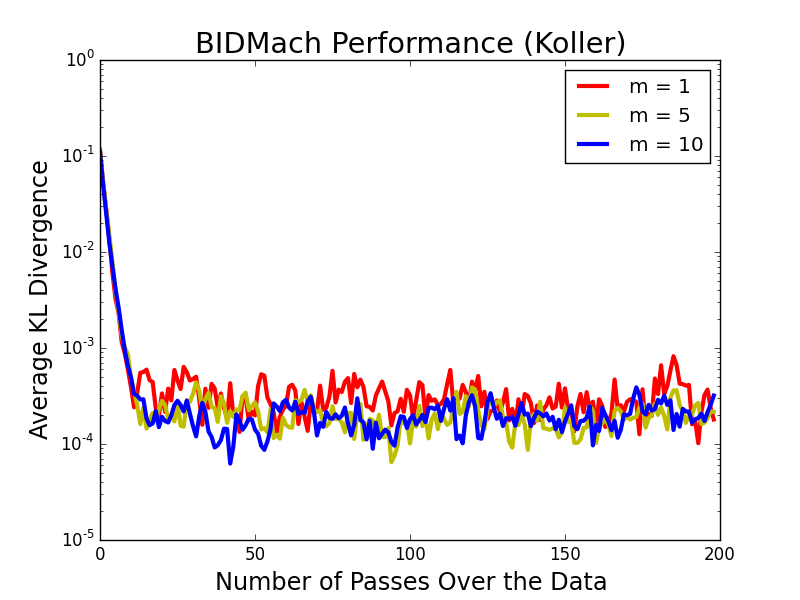
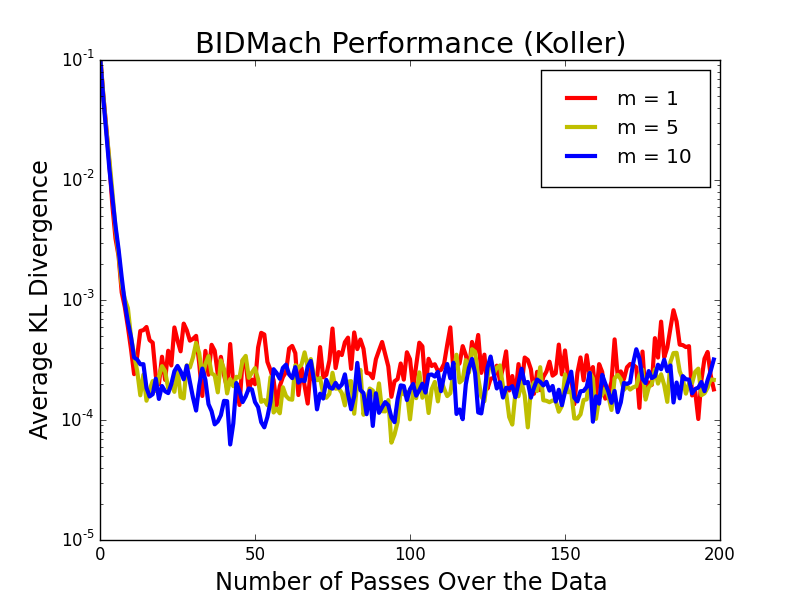
Rearrnage figures and reorganized latex handling of side by side figures

diff --git a/iclr2016_conference.tex b/iclr2016_conference.tex
@@ -299,19 +299,19 @@ sampler, as it is cheaper and simpler to run as compared to using a computing cl
 \centering
 \begin{subfigure}{.5\textwidth}
   \centering
-  \includegraphics[width=1\linewidth]{fig_kldiv_koller_mb4_gpu}
+  \includegraphics[width=0.9\linewidth]{fig_kldiv_koller_mb4_gpu}
   \caption{The $KL_{\rm avg}$ from BIDMach.}
   \label{fig:kl_bidmach}
 \end{subfigure}%
 \begin{subfigure}{.5\textwidth}
   \centering
-  \includegraphics[width=1\linewidth]{fig_kl_div_25_50_perc_jags}
+  \includegraphics[width=0.9\linewidth]{fig_kldiv_50perc_jags}
   \caption{The $KL_{\rm avg}$ from JAGS.}
   \label{fig:kl_jags}
 \end{subfigure}
-\caption{Plots of our $KL_{\rm avg}$ curves as a function of the iteration, on Koller Data. Both
-BIDMach and JAGS converge to the true CPTs quickly. (These must be viewed in color.)}
-\label{fig:test}
+\caption{Plots of our $KL_{\rm avg}$ curves as a function of the iteration, on Koller Data (these
+must be viewed in color). Both BIDMach and JAGS converge to the true CPTs quickly.}
+\label{fig:first_set}
 \end{figure}
 
 % BIDMach (CPU) vs JAGS for the Koller data. This one only has 50k columns now!
@@ -452,19 +452,22 @@ make it clear that runtimes in JAGS *include* initialization.}
 % be done to get high quality models. We should mention that we do not know why JAGS converges
 % faster, and analyzing the source code did not help.
 \begin{figure}[t]
+\centering
+\begin{subfigure}{.5\textwidth}
   \centering
-  \begin{minipage}{.5\textwidth}
-    \centering
-    \includegraphics[width=1\textwidth]{fig_diff_sparsity_bidmach}
-    \caption{Time and $KL_{\rm avg}$ (BIDMach).}
-    \label{fig:kl_time_bidmach}
-  \end{minipage}\hfill
-    \begin{minipage}{.5\textwidth}
-    \centering
-    \includegraphics[width=1\textwidth]{fig_diff_sparsity_jags}
-    \caption{Time and $KL_{\rm avg}$ (JAGS).}
-    \label{fig:kl_time_jags}
-  \end{minipage}
+  \includegraphics[width=0.9\textwidth]{fig_diff_sparsity_bidmach}
+  \caption{The $KL_{\rm avg}$ from BIDMach.}
+  \label{fig:kl_time_bidmach}
+\end{subfigure}%
+\begin{subfigure}{.5\textwidth}
+  \centering
+  \includegraphics[width=0.9\textwidth]{fig_diff_sparsity_jags}
+  \caption{The $KL_{\rm avg}$ from JAGS.}
+  \label{fig:kl_time_jags}
+\end{subfigure}
+\caption{Plots of our $KL_{\rm avg}$ curves as a function of the iteration, on Synthetic MOOC Data
+with different sparsity levels (these must be viewed in color).}
+\label{fig:second_set}
 \end{figure}
 
 
@@ -542,27 +545,24 @@ data. What is interesting is that the performance of $m=10$ is \emph{worse} than
 thousands of iterations, the $m=10$ curve was essentially neck-to-neck with the $m=1$ curve, but
 corresponds to a much slower runtime.
 
-\textbf{Daniel: We are planning on including one JAGS curve ($m=1$) in Figure~\ref{fig:mooc_kl}. We
-will need to explicitly state the runtimes for BIDMach/JAGS, probably just here in the text and not
-in a figure/table. Also, I should explain the ``long term'' trend stuff better, perhaps even
-extending the plot a bit. Finally, like before, I want to give an intuitive feel of the accuracy,
-i.e., how many decimal points of accuracy?}
-
 \begin{figure}[t]
+\centering
+\begin{subfigure}{.5\textwidth}
   \centering
-  \begin{minipage}{.5\textwidth}
-    \centering
-    \includegraphics[width=1\textwidth]{fig_kltime_tradeoff_mooc}
-    \caption{Time and $KL_{\rm avg}$ tradeoff.}
-    \label{fig:mooc_kl}
-  \end{minipage}\hfill
-    \begin{minipage}{.5\textwidth}
-    \centering
-    \includegraphics[width=1\textwidth]{fig_bidmach_real_mooc_roc_curve}
-    \caption{MOOC data ROC curve.}
-    \label{fig:mooc_accuracy}
-  \end{minipage}
+  \includegraphics[width=0.9\textwidth]{fig_kltime_tradeoff_mooc}
+  \caption{The $KL_{\rm avg}$ from BIDMach.}
+  \label{fig:mooc_kl}
+\end{subfigure}%
+\begin{subfigure}{.5\textwidth}
+  \centering
+  \includegraphics[width=0.9\textwidth]{fig_bidmach_real_mooc_roc_curve}
+  \caption{MOOC data ROC curve.}
+  \label{fig:mooc_accuracy}
+\end{subfigure}
+\caption{A more in-depth look at our sampler on Synthetic and Real MOOC data.}
+\label{fig:third_set}
 \end{figure}
+
 
 The second way we evaluate our sampler is with prediction accuracy. We divide the original
 data into a training and testing batch so that 80\% of the known data is in training. The training

diff --git a/data_and_scripts/Figure3_Material/draw.py b/data_and_scripts/Figure3_Material/draw.py
@@ -62,13 +62,14 @@ for i in xrange(3):
     plt.plot(data[i][:200], signals[i], label=legend_labels[i], linewidth=linewidth_num)
 
 # Be sure to increase the font sizes! I might also have to experiment with a lot of other settings.
-plt.legend(loc='upper right', ncol=1)
+plt.legend(loc='upper right', ncol=1, borderpad=1)
 
 plt.title('JAGS Performance (Koller)', fontsize='xx-large')
 plt.yscale('log')
+plt.ylim([0.00001, 0.1])
 plt.xlabel('Number of Passes Over the Data', fontsize='x-large')
 plt.ylabel('Average KL Divergence', fontsize='x-large')
-plt.savefig('fig_kl_div_25_50_perc_jags.png')
+plt.savefig('test.png')
 #######################################################
 # draw the convergence vs time
 time_25_1 = np.zeros(200)

diff --git a/data_and_scripts/Figure2_Material/draw.py b/data_and_scripts/Figure2_Material/draw.py
@@ -46,9 +46,10 @@ plt.plot(data[1], signals[1], label=legend_labels[1], linewidth=3.0)
 plt.plot(data[2], signals[2], label=legend_labels[2], linewidth=3.0)
 
 # Be sure to increase the font sizes! I might also have to experiment with a lot of other settings.
-plt.legend(loc='upper right', ncol=1)
+plt.legend(loc='upper right', ncol=1, borderpad=1)
 plt.title('BIDMach Performance (Koller)', fontsize='xx-large')
 plt.yscale('log')
+plt.ylim([0.00001, 0.1])
 plt.xlabel('Number of Passes Over the Data', fontsize='x-large')
 plt.ylabel('Average KL Divergence', fontsize='x-large')
 plt.savefig('fig_kldiv_koller_mb4_gpu.png')
